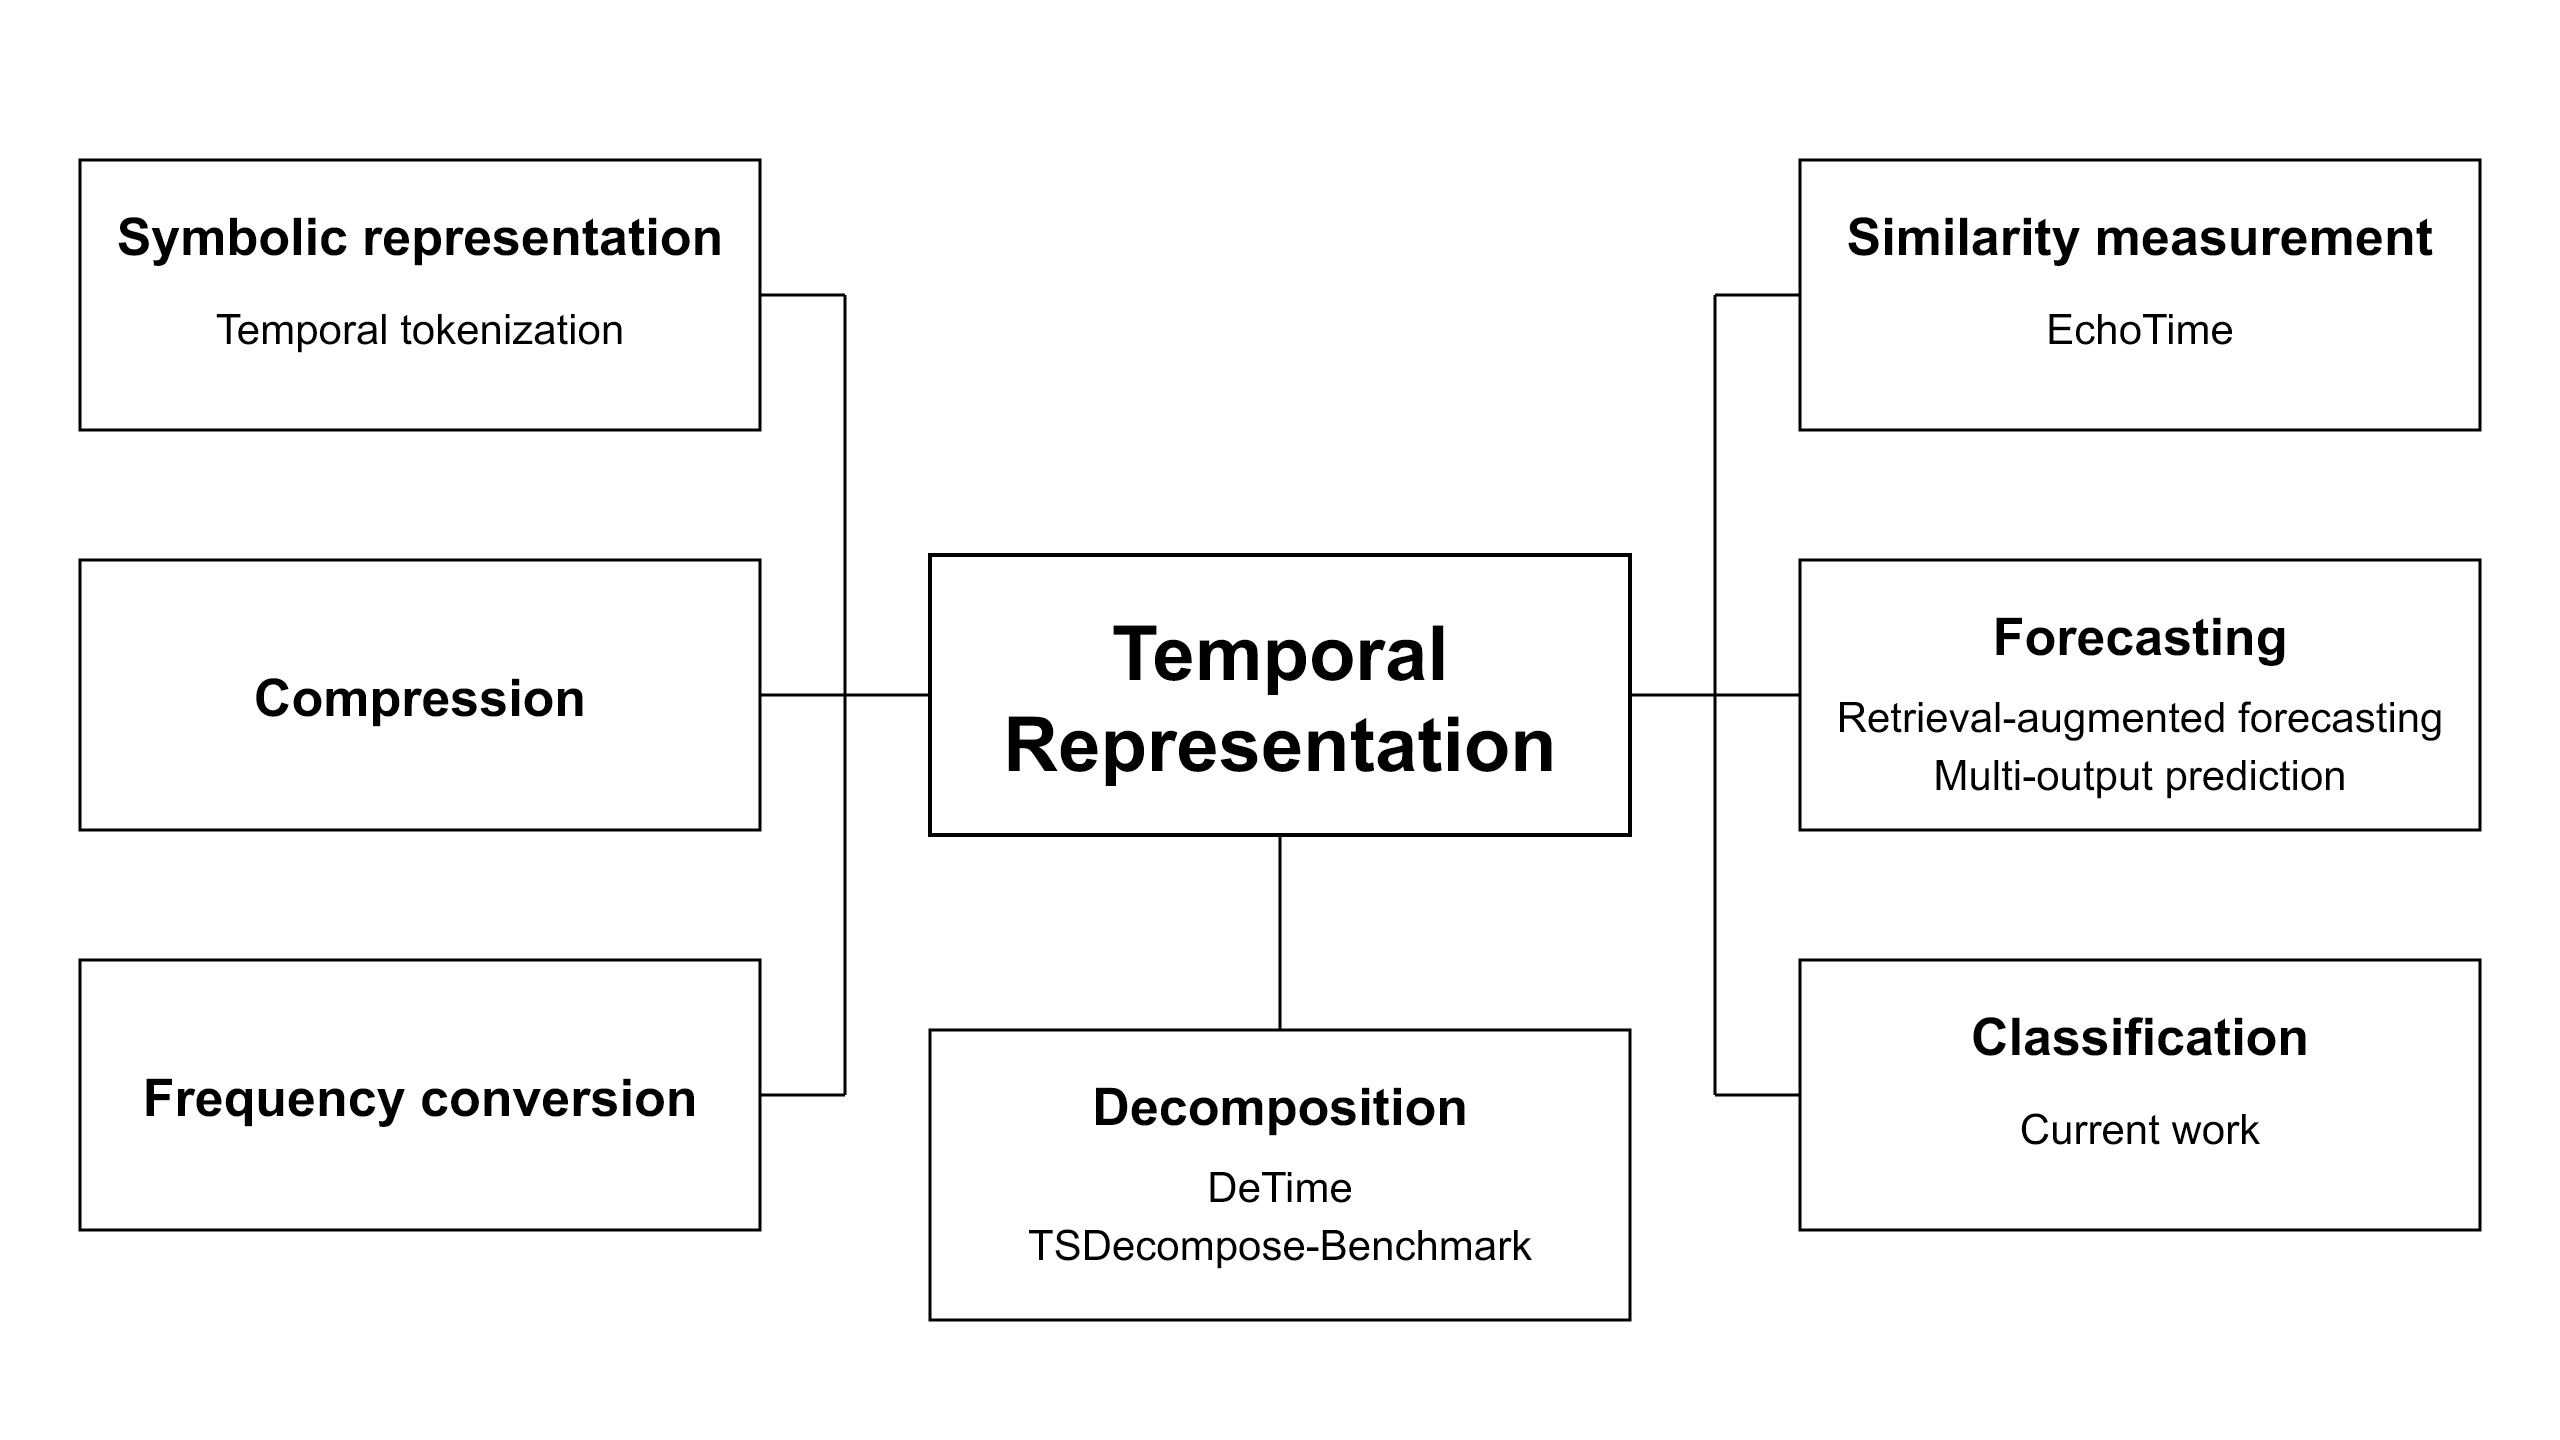
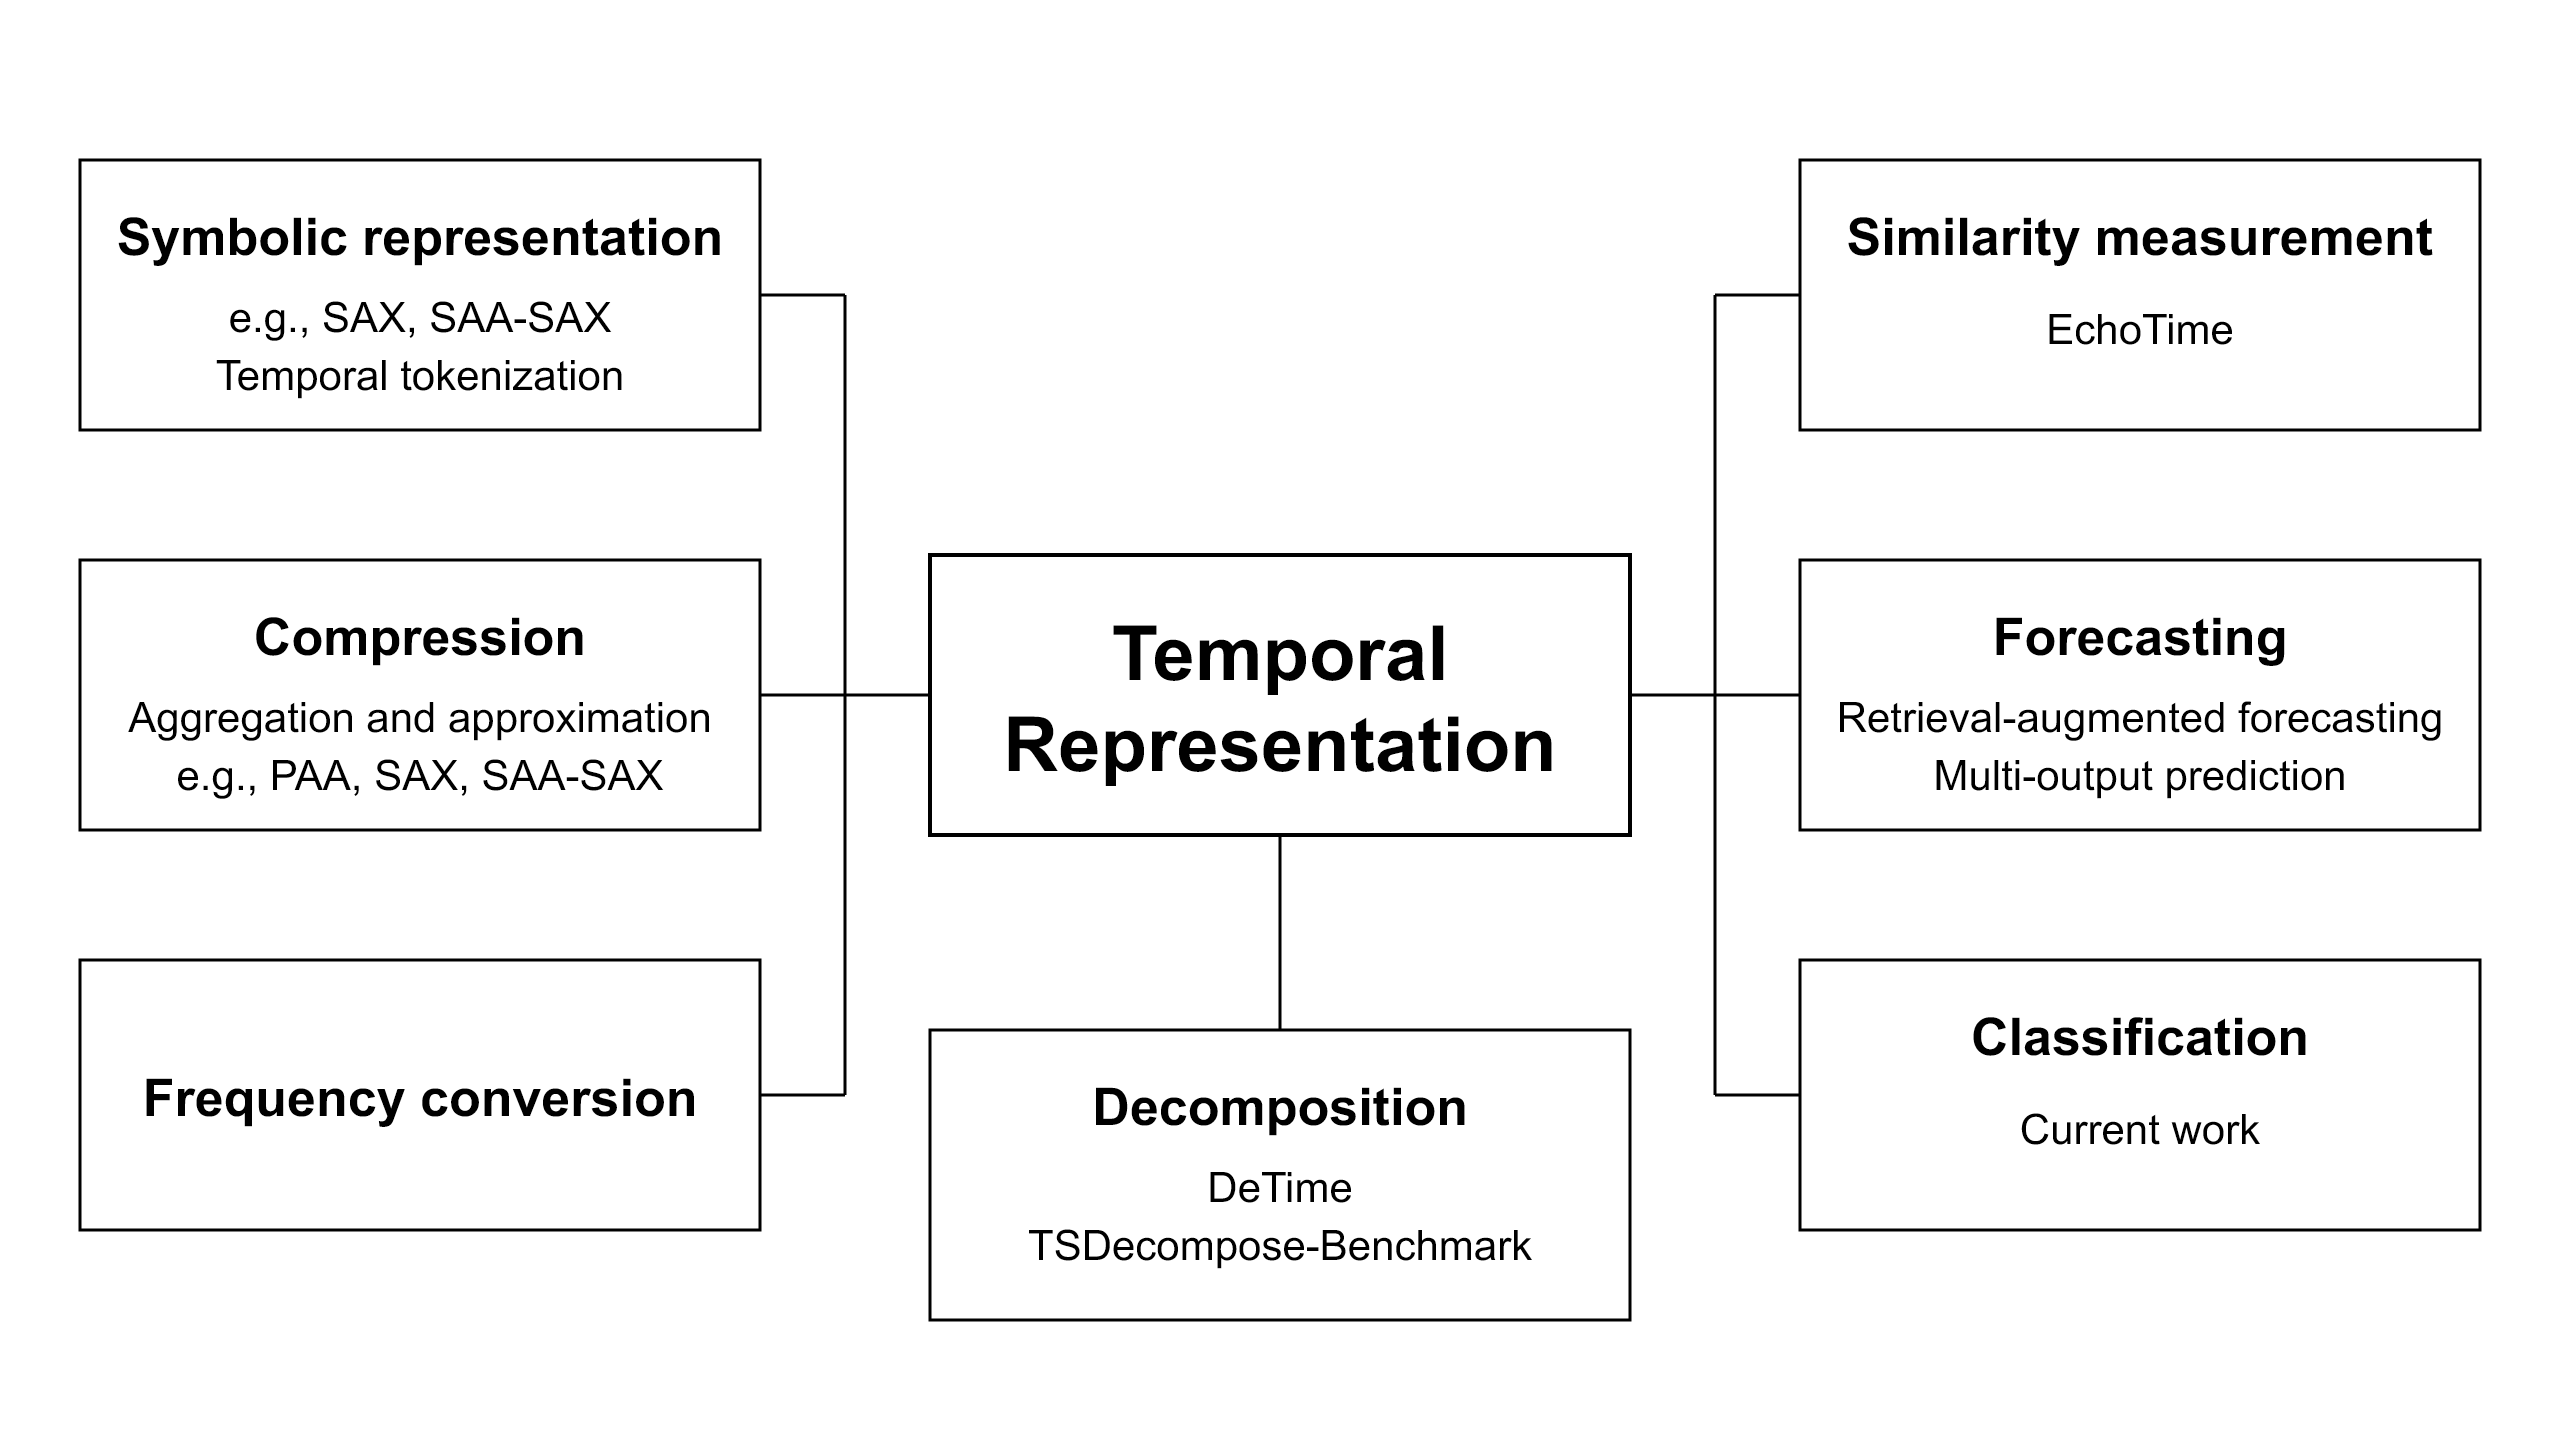
Add PAA SAX and SAA-SAX examples to research map

Changed region(s): [[0.0625, 0.4375, 0.2812, 0.5625], [0.0938, 0.1875, 0.25, 0.2812]]

diff --git a/research.html b/research.html
@@ -43,10 +43,10 @@
       <p>My research centres on <strong>temporal representation</strong>. The map connects work on time series with broader questions about the representation of sequential data, including action histories and model trajectories.</p>
       <figure class="research-map">
         <picture>
-          <source media="(max-width: 600px)" srcset="assets/img/temporal-representation-mobile.png">
-          <img src="assets/img/temporal-representation.png" alt="Temporal Representation connects symbolic representation, compression, frequency conversion, similarity measurement, forecasting, classification, and decomposition. DeTime and TSDecompose-Benchmark sit under decomposition; EchoTime sits under similarity; classification is current work." width="2560" height="1440">
+          <source media="(max-width: 600px)" srcset="assets/img/temporal-representation-mobile.png?v=20261001-methods">
+          <img src="assets/img/temporal-representation.png?v=20261001-methods" alt="Temporal Representation connects symbolic representation, compression, frequency conversion, similarity measurement, forecasting, classification, and decomposition. Compression examples include PAA, SAX, and SAA-SAX. DeTime and TSDecompose-Benchmark sit under decomposition; EchoTime sits under similarity; classification is current work." width="2560" height="1440">
         </picture>
-        <figcaption>A paper or project may connect to more than one direction. <a href="assets/img/temporal-representation.png">Full-size image</a> · <a href="assets/slides/temporal-representation.pptx">Editable PowerPoint</a></figcaption>
+        <figcaption>A paper or project may connect to more than one direction. <a href="assets/img/temporal-representation.png?v=20261001-methods">Full-size image</a> · <a href="assets/slides/temporal-representation.pptx?v=20261001-methods">Editable PowerPoint</a></figcaption>
       </figure>
       <div class="research-directions">
         <article id="representation-core">
@@ -55,11 +55,13 @@
         </article>
         <article id="symbolic-representation">
           <h3>Symbolic representation</h3>
-          <p>Discrete descriptions of temporal structure connect time series to token sequences. Current projects include <em>Time Series Language and Foundation Model</em> and <em>Language-Action Time-Series Tokenization for Efficient VLA Policies</em>. See the <a href="awards.html">associated compute allocations</a>.</p>
+          <p>Discrete descriptions of temporal structure connect time series to token sequences. Representative methods include SAX and SAA-SAX, which also connect to compression through aggregation and approximation.</p>
+          <p>Current projects include <em>Time Series Language and Foundation Model</em> and <em>Language-Action Time-Series Tokenization for Efficient VLA Policies</em>. See the <a href="awards.html">associated compute allocations</a>.</p>
         </article>
         <article id="compression">
           <h3>Compression</h3>
-          <p>Compact temporal representations that retain information relevant to the task. This direction connects the form of a representation to the information it preserves.</p>
+          <p>Aggregation and approximation reduce a time series to a compact representation. Representative methods include <strong>PAA</strong> (Piecewise Aggregate Approximation), which replaces each segment with its mean, and <a href="https://www.cs.ucr.edu/~stelo/papers/DMKD03.pdf"><strong>SAX</strong> (Symbolic Aggregate approXimation)</a>, which maps the PAA values to symbols.</p>
+          <p><a href="https://doi.org/10.1109/SSCI50451.2021.9660130"><strong>SAA-SAX</strong> (Slopewise Aggregate Approximation SAX)</a> uses slope-based aggregation to describe temporal trends before discretization. These methods illustrate lossy compression and dimensionality reduction, and connect this direction to symbolic representation.</p>
         </article>
         <article id="frequency-conversion">
           <h3>Frequency conversion</h3>

diff --git a/index.html b/index.html
@@ -100,11 +100,11 @@
         <figure class="research-map">
           <a href="research.html#research-map" aria-label="Explore the research map and related work">
             <picture>
-              <source media="(max-width: 600px)" srcset="assets/img/temporal-representation-mobile.png?v=20261001-ppt">
-              <img src="assets/img/temporal-representation.png?v=20261001-ppt" alt="Temporal Representation connects symbolic representation, compression, frequency conversion, similarity measurement, forecasting, classification, and decomposition." width="2560" height="1440">
+              <source media="(max-width: 600px)" srcset="assets/img/temporal-representation-mobile.png?v=20261001-methods">
+              <img src="assets/img/temporal-representation.png?v=20261001-methods" alt="Temporal Representation connects symbolic representation, compression, frequency conversion, similarity measurement, forecasting, classification, and decomposition. Representative compression methods include PAA, SAX, and SAA-SAX." width="2560" height="1440">
             </picture>
           </a>
-          <figcaption><a href="research.html#research-map">Related work</a> · <a href="assets/slides/temporal-representation.pptx">PowerPoint</a></figcaption>
+          <figcaption><a href="research.html#research-map">Related work</a> · <a href="assets/slides/temporal-representation.pptx?v=20261001-methods">PowerPoint</a></figcaption>
         </figure>
       </section>
 
